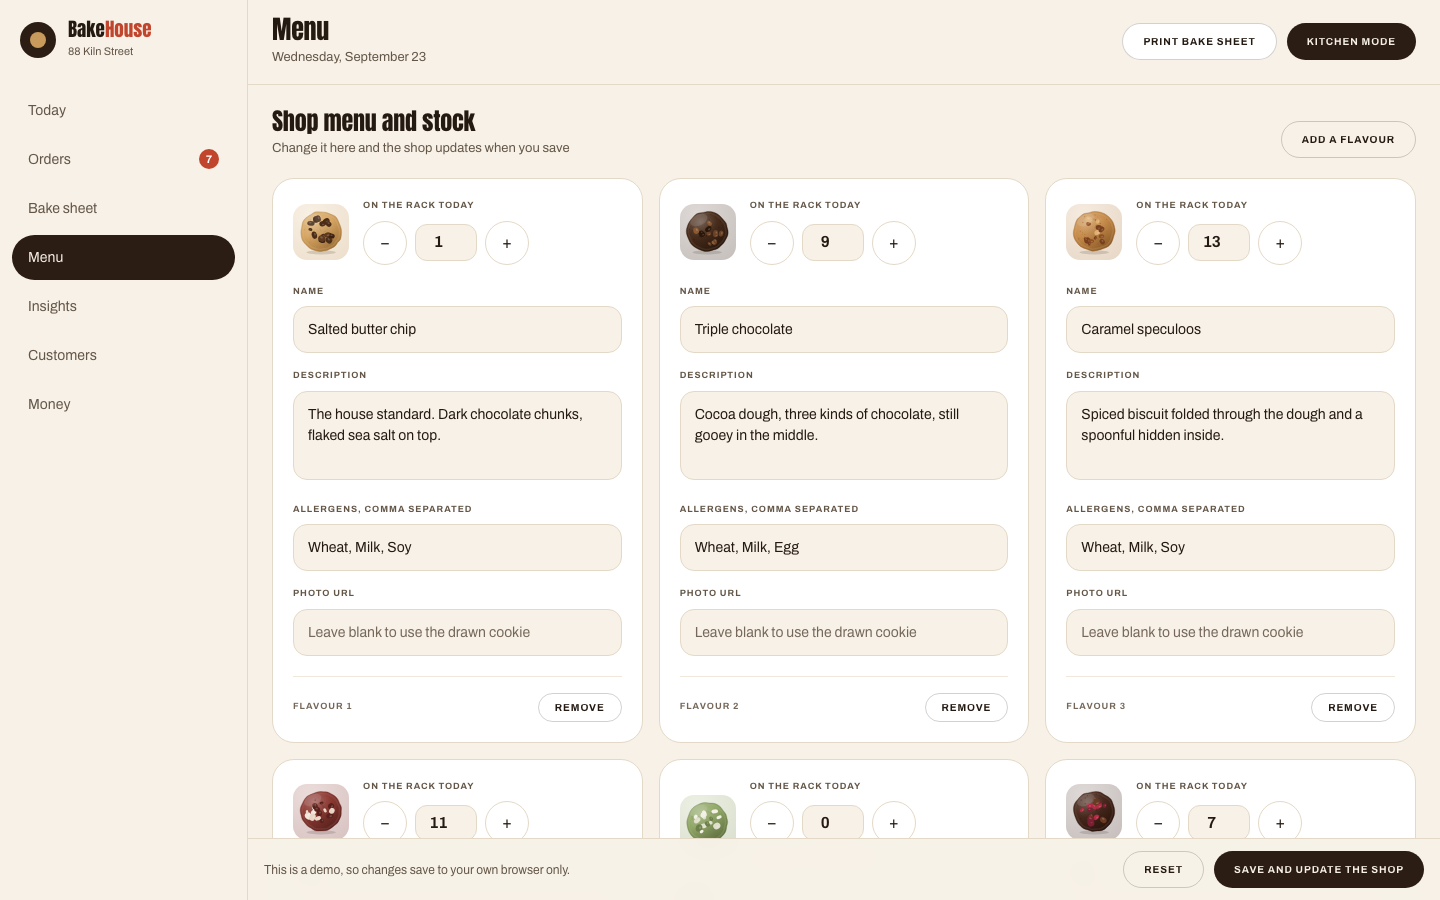
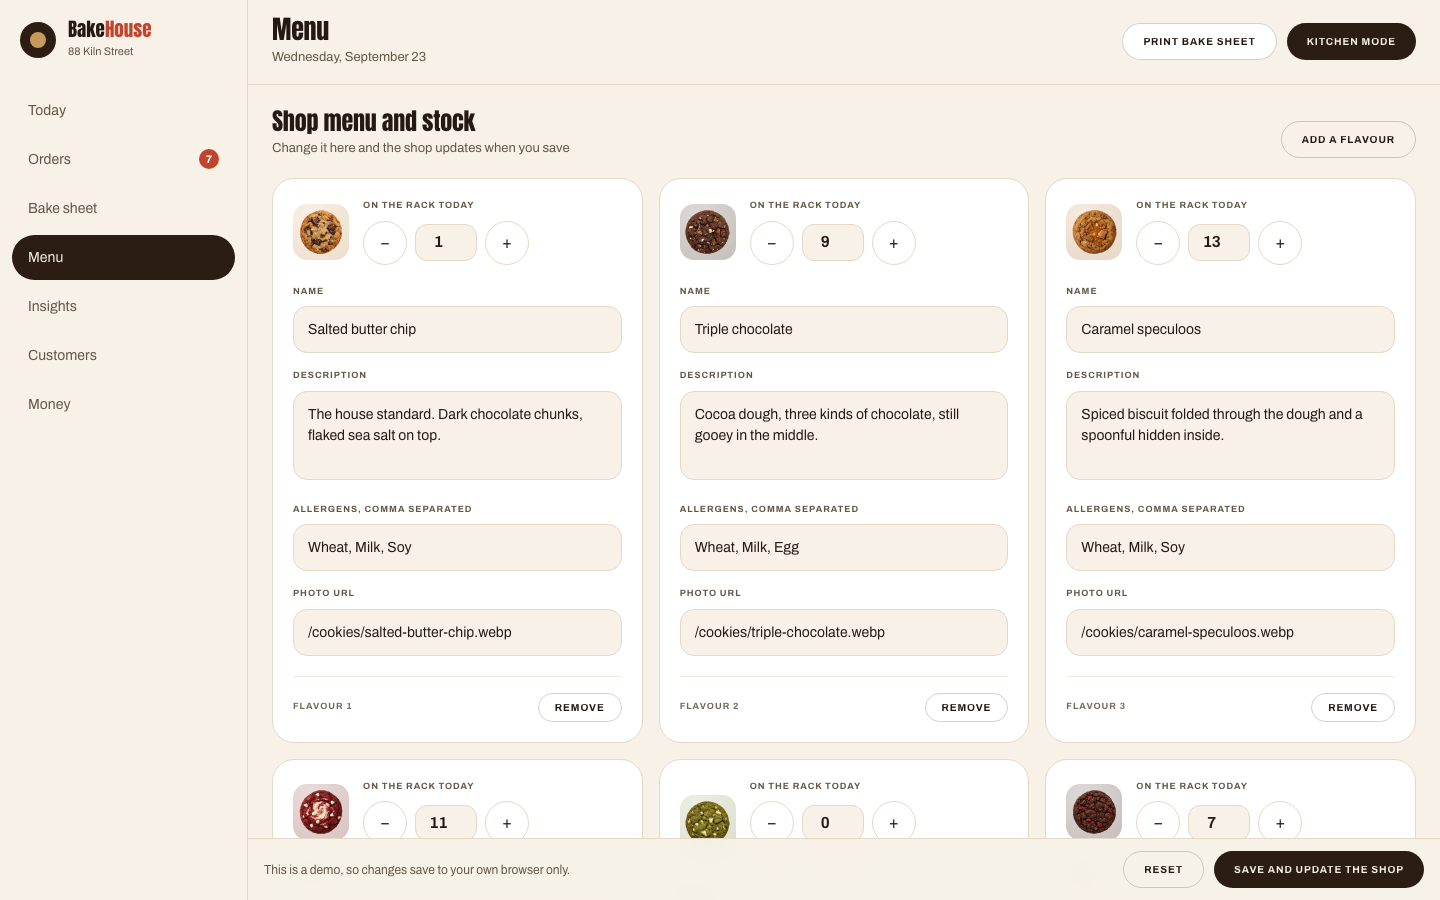
feat: add real cookie photos and improve fallback handling for missing images

diff --git a/src/components/Cookie.tsx b/src/components/Cookie.tsx
@@ -1,4 +1,4 @@
-import { useMemo } from 'react'
+import { useMemo, useState } from 'react'
 import type { CookieArt } from '../lib/types'
 
 function mulberry32(seed: number) {
@@ -195,6 +195,12 @@ interface TileProps {
 
 /** The cookie sat on a warm tile, the way the product cards and carousel show it. */
 export function CookieTile({ art, seedKey, className = '', inset = 9, title, dim, photo }: TileProps) {
+  /* A renamed or missing file falls back to the drawn cookie instead of leaving a
+     broken-image icon in the grid. Keyed on the URL so editing the Photo URL in
+     the dashboard retries rather than staying stuck on the failed source. */
+  const [brokenSrc, setBrokenSrc] = useState<string | null>(null)
+  const showPhoto = Boolean(photo) && brokenSrc !== photo
+
   return (
     <div
       className={`relative flex items-center justify-center overflow-hidden ${className}`}
@@ -208,8 +214,15 @@ export function CookieTile({ art, seedKey, className = '', inset = 9, title, dim
       {/* The same inset wraps both paths so a real photo and a drawn cookie land
           at the same size in the same tile. */}
       <div className="absolute inset-0" style={{ padding: `${inset}%` }}>
-        {photo ? (
-          <img src={photo} alt={title ?? ''} className="h-full w-full object-contain" loading="lazy" />
+        {showPhoto ? (
+          <img
+            src={photo}
+            alt={title ?? ''}
+            loading="lazy"
+            decoding="async"
+            onError={() => setBrokenSrc(photo ?? null)}
+            className="h-full w-full object-contain"
+          />
         ) : (
           <CookieArtSvg art={art} seedKey={seedKey} title={title} className="h-full w-full" />
         )}

diff --git a/src/components/Hero.tsx b/src/components/Hero.tsx
@@ -62,6 +62,8 @@ export function Hero() {
 function FlavourCarousel() {
   const { flavours, add, canAdd, qtyInOrder, available } = useShop()
   const [index, setIndex] = useState(0)
+  /* A missing photo file falls back to the drawn cookie rather than a broken icon. */
+  const [brokenSrc, setBrokenSrc] = useState<string | null>(null)
   const liveRef = useRef<HTMLDivElement>(null)
   const total = flavours.length
   const flavour = flavours[Math.min(index, total - 1)]
@@ -172,11 +174,13 @@ function FlavourCarousel() {
         </div>
 
         <div key={flavour.id} className="fade-enter mt-2">
-          <div className="mx-auto aspect-square w-[68%] max-w-[280px]">
-            {flavour.photo ? (
+          <div className="mx-auto aspect-square w-[78%] max-w-[340px]">
+            {flavour.photo && brokenSrc !== flavour.photo ? (
               <img
                 src={flavour.photo}
                 alt={flavour.name}
+                decoding="async"
+                onError={() => setBrokenSrc(flavour.photo ?? null)}
                 className={`h-full w-full object-contain drop-shadow-[0_18px_30px_rgba(0,0,0,0.45)] ${
                   soldOut ? 'opacity-60 saturate-[0.35]' : ''
                 }`}

diff --git a/picture.md b/picture.md
@@ -8,6 +8,48 @@ the other eight.
 
 ---
 
+## Status: done and wired in
+
+The set has been generated and is live. Sources are in `src/imgs/`, and the
+cut-out, resized results are in `public/cookies/` as `.webp`, already referenced
+from `src/lib/data.ts`. The prompts below are kept so any flavour can be
+re-shot to match.
+
+Two generated files were **not** used, because nine were needed and eleven were
+supplied:
+
+| Source | Became |
+|---|---|
+| `ChatGPT Image ... 02_04_29 AM.png` | `triple-chocolate.webp` |
+| `ChatGPT Image ... 02_04_34 AM.png` | `ceremonial-matcha.webp` |
+| `ChatGPT Image ... 02_04_46 AM.png` | `raspberry-dark.webp` |
+| `ChatGPT Image ... 02_04_49 AM.png` | `oat-and-cinnamon.webp` |
+| `ChatGPT Image ... 02_05_04 AM.png` | `beetroot-red-velvet.webp` |
+| `ChatGPT Image ... 02_05_08 AM.png` | `burnt-marshmallow.webp` |
+| `ChatGPT Image ... 02_05_18 AM.png` | `caramel-speculoos.webp` |
+| `ChatGPT Image ... 02_05_20 AM.png` | *unused — second raspberry dark* |
+| `ChatGPT Image ... 02_05_23 AM.png` | `peanut-butter-cup.webp` |
+| `ChatGPT Image ... 02_05_40 AM.png` | `salted-butter-chip.webp` |
+| `ChatGPT Image ... 02_05_49 AM.png` | *unused — plain choc chip, no sea salt* |
+
+**Why those two were left out.** `02_05_20` is a second take on raspberry dark,
+near-identical to `02_04_46`. `02_05_49` is a clean chocolate chip cookie but with
+small uniform chips and no sea salt, so it does not match Salted butter chip's
+description — `02_05_40` has the big dark chunks and visible salt flakes. Keep
+them as spares if you ever want a different look.
+
+**How they were processed.** Background removed by flood-filling inwards from the
+frame edge rather than keying out white — three of these cookies have white
+chocolate chips, and a straight white-to-transparent key would have hollowed them
+out. Then trimmed to the cookie's bounding box, re-centred square with a 7%
+margin, resized to 720 × 720 and exported as WebP at quality 84. About 115 KB
+each, 1.0 MB for all nine, down from 2.1 MB per source.
+
+To regenerate: drop a new source into `src/imgs/`, re-run the cut-out, and it
+lands on the same filename so nothing else needs changing.
+
+---
+
 ## Read this first
 
 **The rule.** Copy each prompt exactly as written. Do not shorten, reorder or
@@ -141,30 +183,21 @@ Photorealistic food photography of a single cookie, shot from directly overhead 
    not the crop — a box of four and a box of twelve should show the same cookie at
    the same scale.
 
-## Dropping them into the site
+## Adding or swapping one later
 
-The shop already supports real photos and falls back to the drawn cookie when one
-is missing, so you can add them one at a time.
+The shop reads `Flavour.photo` and falls back to the drawn SVG cookie when it is
+empty, so you can change one flavour without touching the rest.
 
-1. Save the PNGs to `public/cookies/` — Vite serves that folder from the site root,
-   so `public/cookies/salted-butter-chip.png` is reachable at
-   `/cookies/salted-butter-chip.png`.
-2. Wire them up either way:
-   - **Dashboard → Menu → Photo URL** — paste `/cookies/salted-butter-chip.png`,
-     then **Save and update the shop**. Fastest, and it is live immediately.
-     Note this saves to the browser only, so it is a preview rather than a deploy.
-   - **Or commit them** in `src/lib/data.ts` by adding a `photo` line to each
-     flavour:
-     ```ts
-     {
-       id: 'salted-butter-chip',
-       name: 'Salted butter chip',
-       // ...
-       photo: '/cookies/salted-butter-chip.png',
-     }
-     ```
-3. Leave `photo` out and that flavour keeps its generated SVG cookie — useful
-   while you are still shooting the set.
+1. Put the file in `public/cookies/` — Vite serves that folder from the site root,
+   so `public/cookies/salted-butter-chip.webp` is reachable at
+   `/cookies/salted-butter-chip.webp`.
+2. Either:
+   - **Dashboard → Menu → Photo URL** — paste `/cookies/salted-butter-chip.webp`,
+     then **Save and update the shop**. Fastest for a look, but it saves to the
+     browser only, so it is a preview rather than a deploy.
+   - **Or commit it** in `src/lib/data.ts` — the `photo` line is already there for
+     all nine flavours; point it at the new file.
+3. Delete the `photo` line and that flavour goes back to its generated SVG cookie.
 
-The filenames above are already the flavour `id`s, so they drop straight in with
-no renaming.
+The filenames are the flavour `id`s, so a re-shoot drops in with no renaming as
+long as it lands on the same name.

diff --git a/.workbuddy-ai/memory/2026-09-23.md b/.workbuddy-ai/memory/2026-09-23.md
@@ -149,4 +149,49 @@ way back, which is a bad demo.
 
 Final state: **48/48 · 48/48 · 29/29 · 27/27 = 152 checks**, zero console errors.
 
+## Fourth pass — real photography + document structure (`/tmp/polish-bakehouse.mjs`, 16 checks)
+
+The user supplied 11 generated cookie photos in `src/imgs/` (1254×1254, ~2.1MB each).
+
+### Mapping and processing
+
+Nine were needed. Two were spares: a second raspberry dark, and a plain choc-chip
+with no sea salt that didn't match Salted butter chip's description. The full
+source→flavour table is in `picture.md`.
+
+Background removal is done by **flood-filling inwards from the frame edge**, not by
+keying out white. Three of these cookies (triple chocolate, matcha, red velvet)
+have white chocolate chips — a naive white→transparent key would hollow them out.
+Then: trim to the cookie bbox, re-centre square with a 7% margin, resize to 720²
+(the largest real use is the carousel at 280 CSS px, so that covers 3× on mobile),
+export WebP q84. **2.1MB → ~115KB each, 1.0MB for all nine.** `dist/` is 1.4MB.
+
+Wired via the `photo` field on every flavour in `src/lib/data.ts` — the mechanism
+already existed, so no component changes were needed beyond making the photo path
+share the drawn-cookie path's inset (otherwise photos render larger than SVGs) and
+dropping a redundant `rounded-full` that risked clipping.
+
+`src/imgs/` is **29MB of source that never ships** — Vite ignores unreferenced
+files, and nothing leaked into `dist/`. Worth knowing it is in git.
+
+### Document-structure findings
+
+- **The carousel's flavour name was an `h2` placed before the page `h1`** in DOM
+  order, so a screen reader announced a slide label before the page title. It is a
+  slide label, not a section heading — now a `<p>`.
+- Print now hides the shop's announcement bar, ticker and header (previously only
+  the mobile order bar had `no-print`).
+- The bake sheet printed "1 **trays**" and printed its own PRINT button. Both fixed.
+
+### One honest non-fix
+
+Exporting the whole 6100px shop page to PDF **hangs headless Chrome** (>90s, with
+or without backgrounds). Measured: bake sheet 72ms, shop page 1 260ms, full page
+>90s. That is a headless limitation on very tall pages, not a defect — the bake
+sheet, which is the only page the spec asks to print, renders in 72ms. The polish
+check now exports page 1 instead of pretending the full-page case works.
+
+Final state: **48/48 · 48/48 · 29/29 · 27/27 · 16/16 = 168 checks**, zero console errors.
+
+
 
